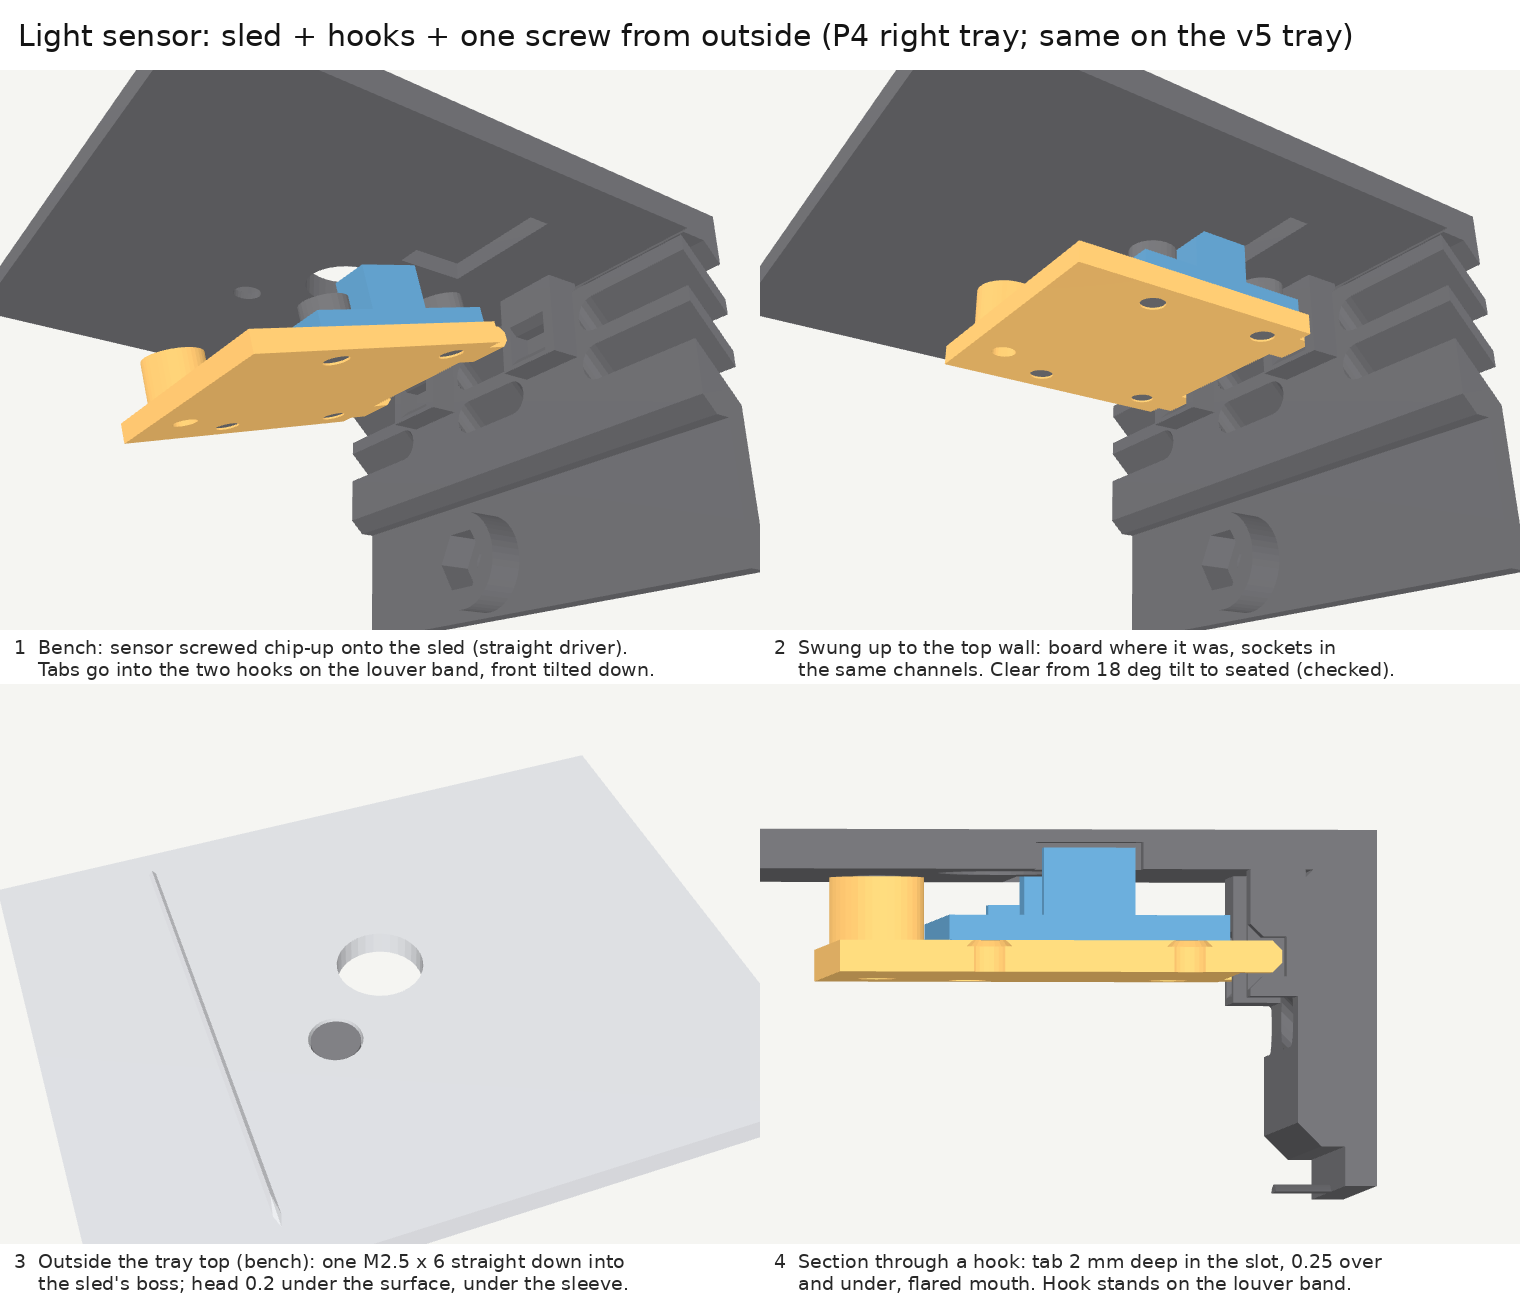
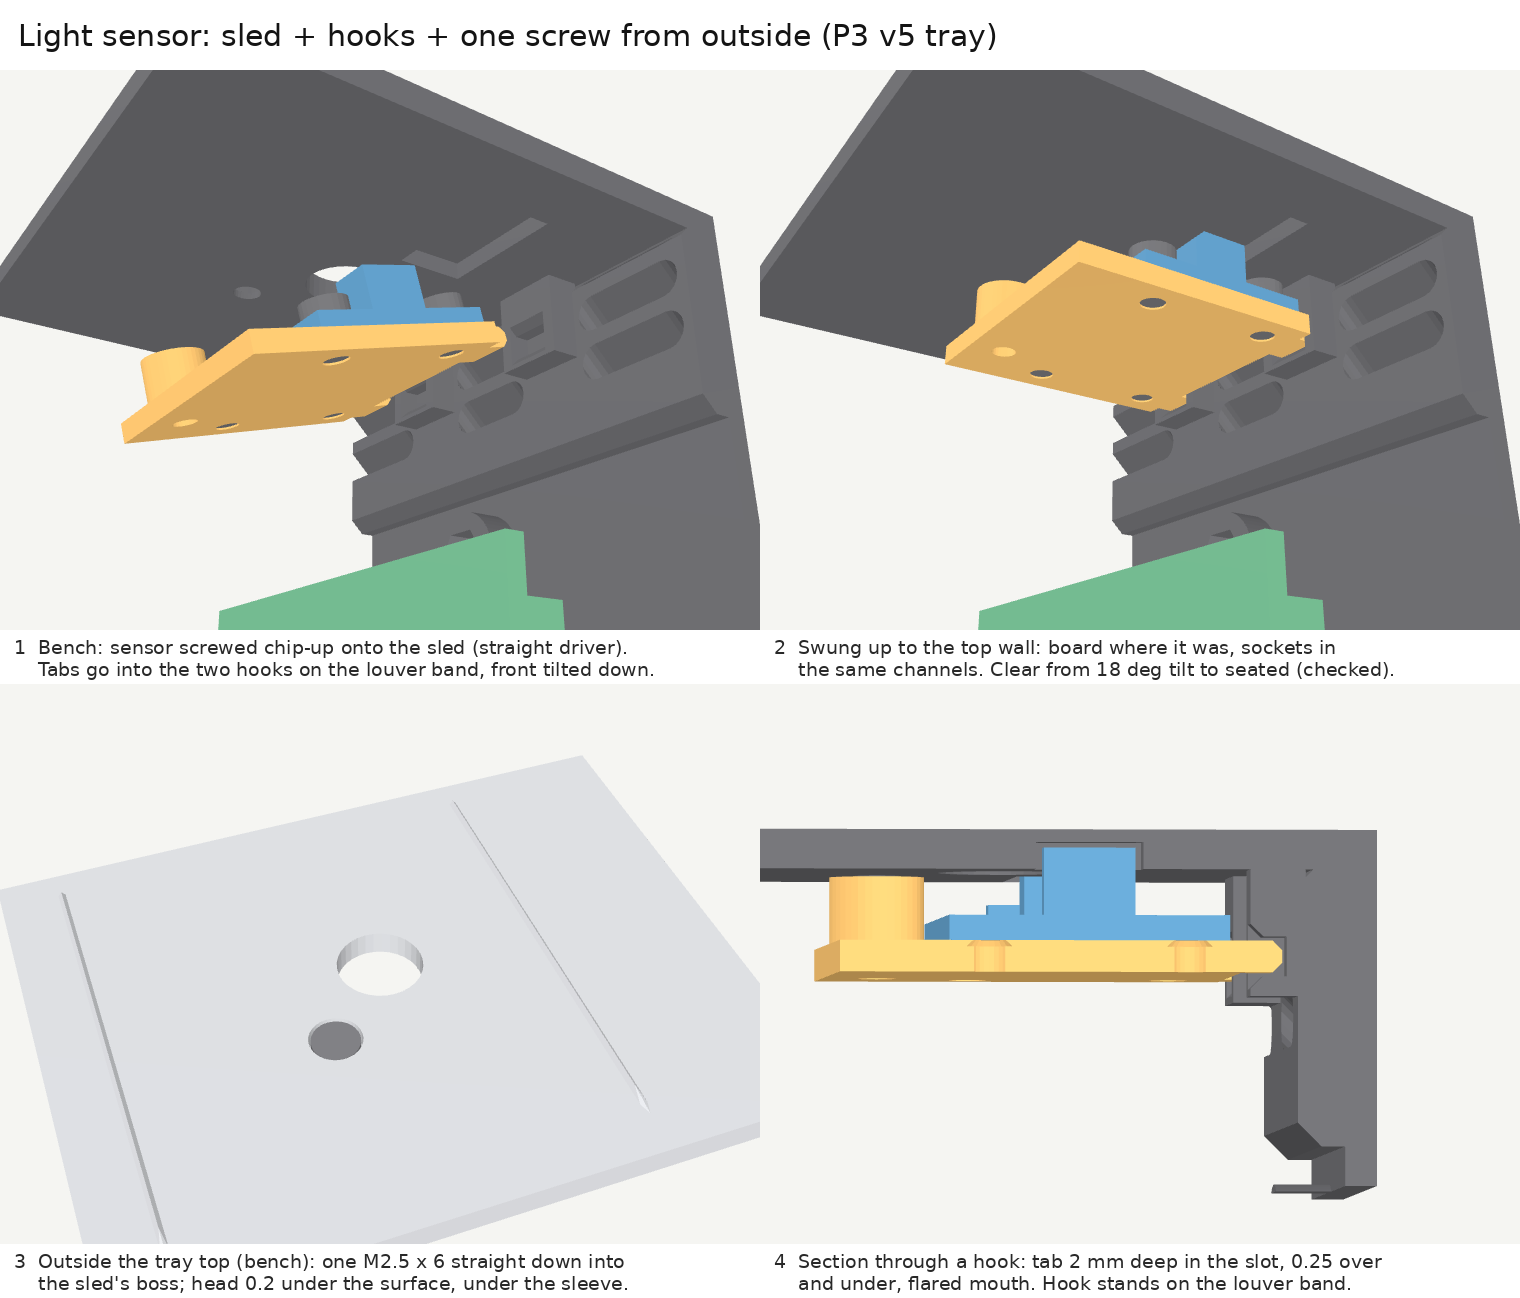
Bar sleeve fixes: renders on the P3 v5 tray; the assembly was the P3's
Claude-Session: https://claude.ai/code/session_01G1nRX1JHZNAqoHqaj6AGKZ

diff --git a/hardware/bar-sleeve-case/DESIGN-HISTORY.md b/hardware/bar-sleeve-case/DESIGN-HISTORY.md
@@ -310,4 +310,4 @@ The first walnut shell was a prototype and was scrapped, so the shell was open t
 - Top louver rows split in the middle by a 6 mm bar (`LV_SPLIT`): the full-width slots left the band flexible. The bottom rows were already broken up by the screw bosses.
 - Crush ribs 0.35 -> 0.45 mm proud (0.2 into the sleeve instead of 0.1): the tray was a touch loose. Fit coupons regenerated.
 - S3 placement (both panels): as low between the right-hand posts as leaves ~1.8 mm to the lower post (`S3_LOW`), so the USB-C plug sits well below the case's centre. P3 USB-C at ZC -16.45 (unchanged within 0.03), P2.5 at ZC -17.7 (was -14.0, centred). Shells and trays regenerated; `drawer_s3_mid` is now only an optional override.
-- Assembly fixes (Nov 3, after the first P4 assembly): (1) bottom nuts: the side slot's 5.55 mouth only passed a nut within ~1° of square and was clearance, not grip, so nuts fought going in and fell out; replaced by a top-loaded press-fit hex seat (the cleat pockets' 5.7) under a loose hex chimney through the bottom louver band, with the tray's float moved to stadium holes in the shell (±0.4: ±0.6 left the head no bearing at the slot's far end). Considered: thread-forming into the boss (no nuts, but PETG threads wear). (2) light sensor: from pillars driven up from inside to a bench-assembled sled on two hooks at the louver band plus one screw from outside the tray's top; the hook block is merged into the band so nothing overhangs back-down, and the screw boss is on the sled (a pillar off the wall is the cantilever that printed badly Oct 30). Considered: two screws and no hooks (sled has to be held against a vertical wall), a snap clip (unprintable as a hanging cantilever). (3) encoder collar: three crush ribs in the bore hold the bushing so the nut can go on hands-free (the encoder can't be twisted in: its board's corners sweep r 18 and would hit the panel). Considered: a drop-in cartridge through a ~26 mm square opening under a ~40 mm flange (easiest assembly and service, but changes the top's look), an assembly prop.
+- Assembly fixes (Nov 3, after the first v5 drawer (P3) assembly): (1) bottom nuts: the side slot's 5.55 mouth only passed a nut within ~1° of square and was clearance, not grip, so nuts fought going in and fell out; replaced by a top-loaded press-fit hex seat (the cleat pockets' 5.7) under a loose hex chimney through the bottom louver band, with the tray's float moved to stadium holes in the shell (±0.4: ±0.6 left the head no bearing at the slot's far end). Considered: thread-forming into the boss (no nuts, but PETG threads wear). (2) light sensor: from pillars driven up from inside to a bench-assembled sled on two hooks at the louver band plus one screw from outside the tray's top; the hook block is merged into the band so nothing overhangs back-down, and the screw boss is on the sled (a pillar off the wall is the cantilever that printed badly Oct 30). Considered: two screws and no hooks (sled has to be held against a vertical wall), a snap clip (unprintable as a hanging cantilever). (3) encoder collar: three crush ribs in the bore hold the bushing so the nut can go on hands-free (the encoder can't be twisted in: its board's corners sweep r 18 and would hit the panel). Considered: a drop-in cartridge through a ~26 mm square opening under a ~40 mm flange (easiest assembly and service, but changes the top's look), an assembly prop.

diff --git a/hardware/bar-sleeve-case/P4-BUILD.md b/hardware/bar-sleeve-case/P4-BUILD.md
@@ -84,7 +84,7 @@ Filament, roughly: walnut ~150 g (shell), black PETG ~200 g (trays, diffuser, sp
 An independent pass over the model and the STLs (then re-run after the fixes): nothing collides when seated except the intended crush ribs and diffuser snap bumps; the panel, both tray halves (the right one with the S3, its USB-C and buttons, and the sensor), the bridge and the spine all slide in clear; every screw lines up with its insert, nut or slot (within 0.02 mm) and every driver line is clear; all STLs are watertight and fit the bed (worst: the bottom shell half, 4.3 mm a side; no more than a 4.6 mm brim). Fixed from that pass: the diffuser's white and black parts are exported in one frame (they were 4.3 mm apart), the lap has a glue gap and 45° ends, the halves meet at the reveal's lower edge (no thin nib), the ribbon hooks have 45° lips, the spine is countersunk (its button heads stood 0.65 mm proud of the back rim), the check frame tests the bridge's insert, and the S3 is cabled before it goes on its posts. Left as is: the USB-C opening's 13.65 mm roof bridge (as v4/v5) and the tie loop's 14 mm bridge.
 
 ## Assembly fixes (Nov 3)
-After the first assembly: bottom nuts now drop into a press-fit hex seat (no side slot; the ±0.4 float moved to the shell's screw holes), the light sensor rides on a sled screwed from outside the tray, and the collar's bore holds the encoder while its nut goes on. Details, numbers and the checks: README, "Assembly fixes (Nov 3)"; `python3 check_fixes.py` with `PANEL=p4`. A P4 shell printed before this has round screw holes: file them to about 3.4 x 4.2 mm along the case's depth.
+From the first v5 (P3) assembly, carried over to the P4: bottom nuts now drop into a press-fit hex seat (no side slot; the ±0.4 float moved to the shell's screw holes), the light sensor rides on a sled screwed from outside the tray, and the collar's bore holds the encoder while its nut goes on. Details, numbers and the checks: README, "Assembly fixes (Nov 3)"; `python3 check_fixes.py` with `PANEL=p4`. A P4 shell printed before this has round screw holes: file them to about 3.4 x 4.2 mm along the case's depth.
 
 ## Open
 - Panel thickness, data-out header height, and the insert positions (check frame) are the only panel facts not yet measured.

diff --git a/hardware/bar-sleeve-case/README.md b/hardware/bar-sleeve-case/README.md
@@ -129,7 +129,7 @@ look; only the USB-C opening moves (low on the right) and the tongue grooves go.
   4 x M3 x 8 countersunk down the post tubes into the panel; 2 x M3 x 10 + nuts from below (one pair, x +/-46, both panels).
 
 #### Assembly fixes (Nov 3)
-Three things fought back in the first P4 assembly; all three trays (P3, P2.5, P4) and collars changed. Check with
+Three things fought back in the first v5 drawer (P3) assembly; the fixes are in all three trays (P3, P2.5, P4) and the collars. Check with
 `python3 check_fixes.py` (and `PANEL=p4`, `PANEL=p25`): nut path, screws at full float, sled seated and swung in, louver area.
 
 - **Bottom nuts** (`NUT_STYLE`, default `hex`). The side-loaded slot passed a nut only within ~1° of square (its 5.55 mouth,
